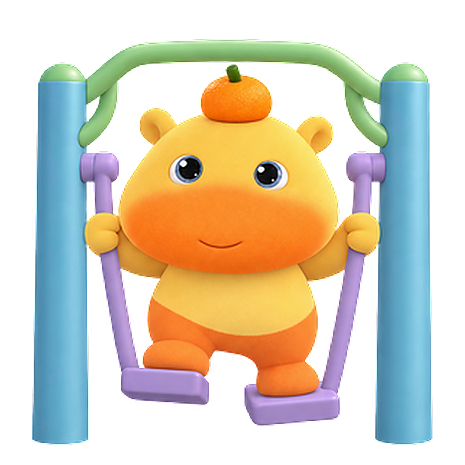
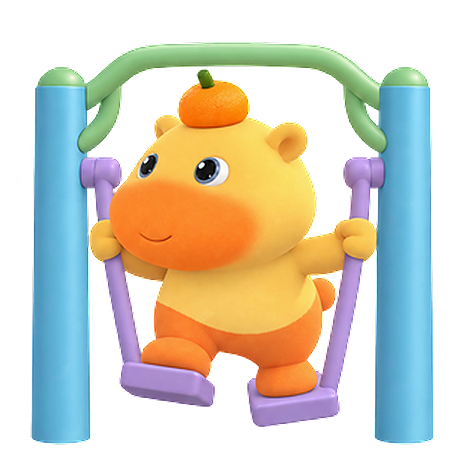
Match Lulu stepper animation to side-view reference

diff --git a/variants/desktop_pet_lulu/art/reference_actions/SUPPORTED_STEPPER_PROMPT.md b/variants/desktop_pet_lulu/art/reference_actions/SUPPORTED_STEPPER_PROMPT.md
@@ -4,4 +4,8 @@ The new user screenshot is a park air-walker/stepper reference. Lulu stands with
 
 ## Generated 2×2 sprite sheet
 
-+Use case: identity-preserve edit. Asset type: production 2x2 transparent desktop-pet sprite sheet, FOUR different full-body poses. Image 1 is the already approved Lulu identity, exact warm yellow-orange 3D plush character proportions, fruit and face. Image 2 is the user's outdoor STEPPER / AIR WALKER exercise reference. Read image 2 accurately: Lulu is UPRIGHT with EACH FOOT PLANTED ON ITS OWN PURPLE FOOT PEDAL, while the little HANDS HOLD THE SIDE HANDLEBARS near shoulder height. Lulu is NOT hanging from the overhead green curve. Create a new action called cute supported stepping, not the deleted pull-up action. In every equal square cell draw the complete Lulu and a compact simplified version of the equipment: two fixed slender blue-green side support posts, a curved pale-green bar above Lulu as in the photo, two lavender side hand grips at shoulder level, and TWO separate small lavender pedals directly under Lulu's feet. Make both hands wrap the side grips, with NO hands touching the top curve. Feet must visibly remain on top of their individual pedals in every pose. Frame 1: both pedals level, Lulu upright centered and looking curious. Frame 2: left pedal/left foot swings a little forward and right pedal/right foot shifts backward, real independent leg articulation; left hand and right hand still hold the side grips. Frame 3: pedals pass through level, Lulu gently smiles and blinks, tiny body counterbalance only. Frame 4: right pedal/right foot swings forward and left pedal/left foot shifts backward, legs truly alternate. The feet never float free and the upper body is never suspended. Device's fixed side posts, green overhead curve and hand grip attachment points must remain at the same coordinates across all four frames; only the paired foot pedals and Lulu's legs articulate. Keep Lulu's approved very broad orange muzzle, two glossy blue-gray eyes, tiny ears, yellow plush body, orange lower body, and one orange tangerine with green stem on top of the head. The green top curve must stay above and behind the tangerine, never intersecting the head. Same camera and physical scale in all poses. 8% completely transparent RGBA padding inside every cell, all equipment and character fully within its own cell. No playground floor, scenery, shadows, aura, other people, text, numbers, grid lines, checkerboard or opaque background. No extra hands, feet or pedals, no bent-elbow chin-up, no whole-picture jitter, translation or scale tricks.
+Use case: identity-preserve edit. Asset type: production 2x2 transparent desktop-pet sprite sheet, FOUR different full-body poses. Image 1 is the already approved Lulu identity, exact warm yellow-orange 3D plush character proportions, fruit and face. Image 2 is the user's outdoor STEPPER / AIR WALKER exercise reference. Read image 2 accurately: Lulu is UPRIGHT with EACH FOOT PLANTED ON ITS OWN PURPLE FOOT PEDAL, while the little HANDS HOLD THE SIDE HANDLEBARS near shoulder height. Lulu is NOT hanging from the overhead green curve. Create a new action called cute supported stepping, not the deleted pull-up action. In every equal square cell draw the complete Lulu and a compact simplified version of the equipment: two fixed slender blue-green side support posts, a curved pale-green bar above Lulu as in the photo, two lavender side hand grips at shoulder level, and TWO separate small lavender pedals directly under Lulu's feet. Make both hands wrap the side grips, with NO hands touching the top curve. Feet must visibly remain on top of their individual pedals in every pose. Frame 1: both pedals level, Lulu upright centered and looking curious. Frame 2: left pedal/left foot swings a little forward and right pedal/right foot shifts backward, real independent leg articulation; left hand and right hand still hold the side grips. Frame 3: pedals pass through level, Lulu gently smiles and blinks, tiny body counterbalance only. Frame 4: right pedal/right foot swings forward and left pedal/left foot shifts backward, legs truly alternate. The feet never float free and the upper body is never suspended. Device's fixed side posts, green overhead curve and hand grip attachment points must remain at the same coordinates across all four frames; only the paired foot pedals and Lulu's legs articulate. Keep Lulu's approved very broad orange muzzle, two glossy blue-gray eyes, tiny ears, yellow plush body, orange lower body, and one orange tangerine with green stem on top of the head. The green top curve must stay above and behind the tangerine, never intersecting the head. Same camera and physical scale in all poses. 8% completely transparent RGBA padding inside every cell, all equipment and character fully within its own cell. No playground floor, scenery, shadows, aura, other people, text, numbers, grid lines, checkerboard or opaque background. No extra hands, feet or pedals, no bent-elbow chin-up, no whole-picture jitter, translation or scale tricks.
+
+## 1.1.4 three-quarter side-view correction
+
+Use case: precise identity-preserving sprite-sheet edit. Image 1 is the CURRENT 2x2 transparent Lulu supported-stepper sprite sheet and is the EDIT TARGET. Image 2 is the user's original park exercise reference and controls the CHARACTER VIEW ANGLE. Image 3 is the approved Lulu identity/style reference. Redraw image 1 as a new production 2x2 sprite sheet with four complete separately illustrated frames, retaining the same compact blue-green side posts, pale mint arch, purple side grips and two separate purple foot pedals. Critical correction: Lulu must be THREE-QUARTER SIDE VIEW EXACTLY LIKE IMAGE 2, turned roughly 35–45 degrees toward the VIEWER'S LEFT, never straight front-facing. Let the huge orange muzzle visibly project toward the left side of each cell; show the right cheek, rounded yellow flank and orange rear body extending behind toward the right, and a hint of the right-side back/tail. Both glossy eyes remain visible, with natural perspective difference between nearer and farther eye. Head and torso share this three-quarter orientation in every frame, no single frame reverting to a frontal face. Keep the approved Lulu's tiny ears and one orange fruit with green stem. The reference photo shows Lulu STANDING ON the device: two small orange feet each rest fully ON TOP of its own lavender pedal, hands hold the nearby SIDE handles at shoulder height, one hand may be partially occluded by the angled body but still connected and gripping. Lulu must NOT hang from the upper arch or pull up. Four-frame animation: (1) balanced center on two pedals, curious side glance; (2) left foot and left pedal step forward as right recedes, real hip/knee and pedal changes; (3) pass through center with a soft smile/blink; (4) right foot and right pedal step forward as left recedes. Draw true anatomy and device pedal articulation, do not rotate/translate/scale a whole bitmap. All static blue support posts and the mint overhead arch stay at identical coordinates in all four equal cells; side hand-grip attachment points also stay fixed. The orange fruit must remain below the arch with no collision. Preserve exact soft 3D plush material and broad orange muzzle. Full character plus complete exercise equipment inside EACH square cell, generous >=8% fully transparent margins on all four edges, clean true alpha zero around silhouettes. No floor, playground scene, shadows, glow, checkerboard, borders, grid, labels, extra arms, extra legs or cropped equipment.

diff --git a/variants/desktop_pet_lulu/README.md b/variants/desktop_pet_lulu/README.md
@@ -1,4 +1,4 @@
-# 噜噜桌宠 · DesktopPetLulu 1.1.3
+# 噜噜桌宠 · DesktopPetLulu 1.1.4
 
 基于本仓库原有 DesktopPet 框架的独立角色，保留圆润黄色身体、橙色嘴部和头顶小橘子。原男生版和女生版不受影响。
 
@@ -8,6 +8,11 @@
 - Windows 10/11 64 位：双击 `DesktopPetLulu-Windows-x64.exe`。也可解压 ZIP，双击其中的 `DesktopPetLulu.exe`。
 - 分享给朋友：macOS 发送 DMG；Windows 发送 ZIP。无需安装 Python。
 - 当前使用本地临时签名，未进行 Apple 公证或 Windows 商业签名。系统首次运行可能显示来源提示。
+
+## 1.1.4 扶杆踏步侧身修订
+
+- “扶杆踏步”按参考照片改为面朝画面左侧的四分之三侧身角度：橙色嘴部向左突出，身体向右后方延伸。
+- 四帧继续保持双手扶侧边把手、双脚踩踏板并左右交替踏步；器械和桌宠均完整显示。
 
 ## 1.1.3 第二张参考图动作
 

diff --git a/variants/desktop_pet_lulu/art/APPROVALS.md b/variants/desktop_pet_lulu/art/APPROVALS.md
@@ -15,3 +15,5 @@
 - User follow-up: add the bucket-hat and crossbody-pouch pose from the new photo, and remove the old third action (pullups). The replacement is a four-pose generated action using the approved Lulu identity. The original private photos remain outside the repository and package.
 
 - User clarified the second new screenshot shows Lulu standing with feet on separate exercise pedals while holding side handles. Added a separate supported-stepping action; the previously generated hanging candidate was discarded. The old pull-up action remains removed.
+
+- User follow-up: make supported stepping match the screenshot's side-facing body angle. Replaced all four frontal source poses with three-quarter left-facing Lulu drawings while preserving the two pedal contacts and side grips.
